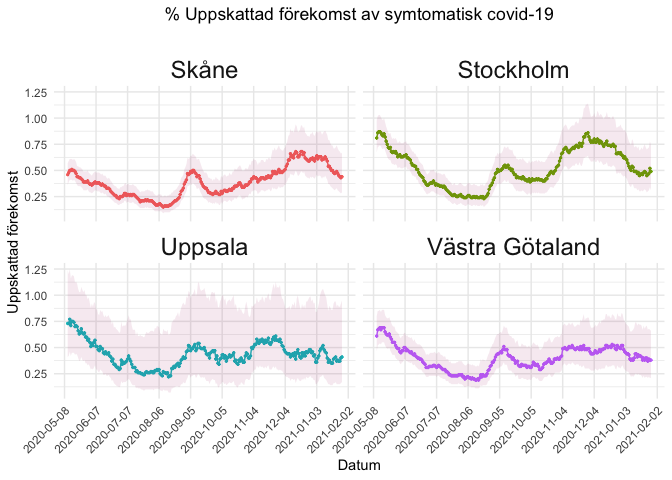
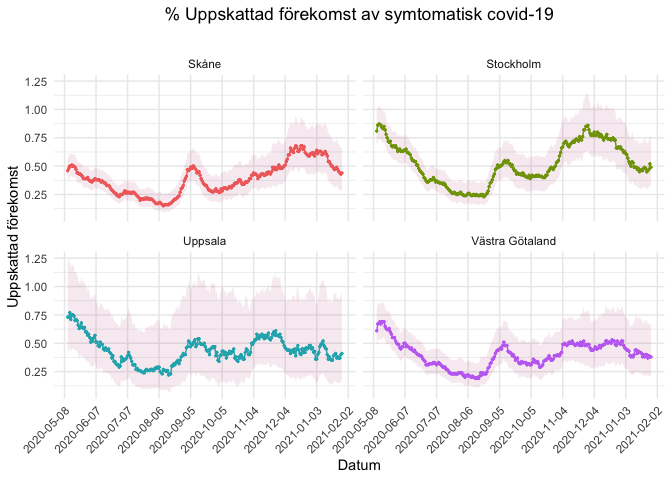
edit README

diff --git a/README.md b/README.md
@@ -94,7 +94,7 @@ covidsymptom::county_estimates %>%
       scale_x_date(date_breaks = "30 days") +
       theme_minimal() + 
       theme(axis.text.x = element_text(angle = 45, hjust = 1), panel.grid.minor.x = element_blank(),
-            legend.position = "none", plot.title = element_text(hjust = 0.5), strip.text = element_text(size=18)) + 
+            legend.position = "none", plot.title = element_text(hjust = 0.5)) + 
       # Add the confidence intervals and make them slightly transparent
       geom_ribbon(aes(ymin = Low_CI, ymax = High_CI), color = "transparent", fill = "#a60f61", alpha = 0.09) +
       facet_wrap(. ~ Lan) 
